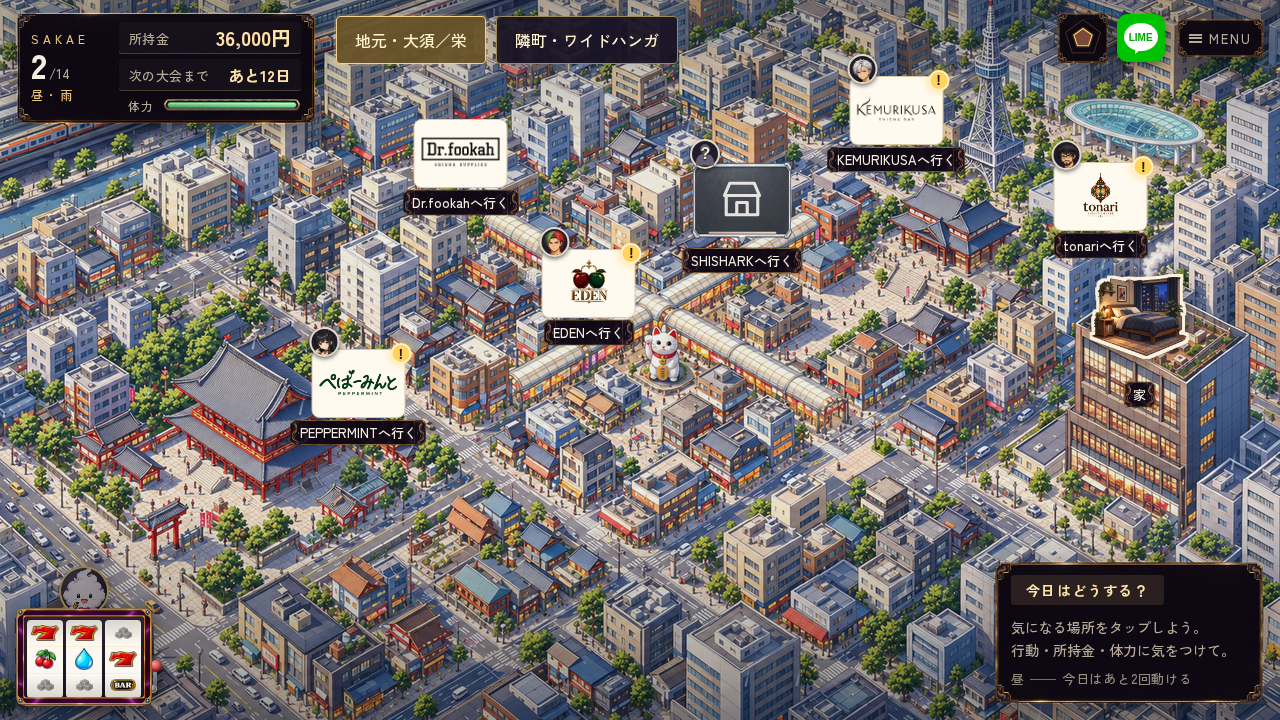
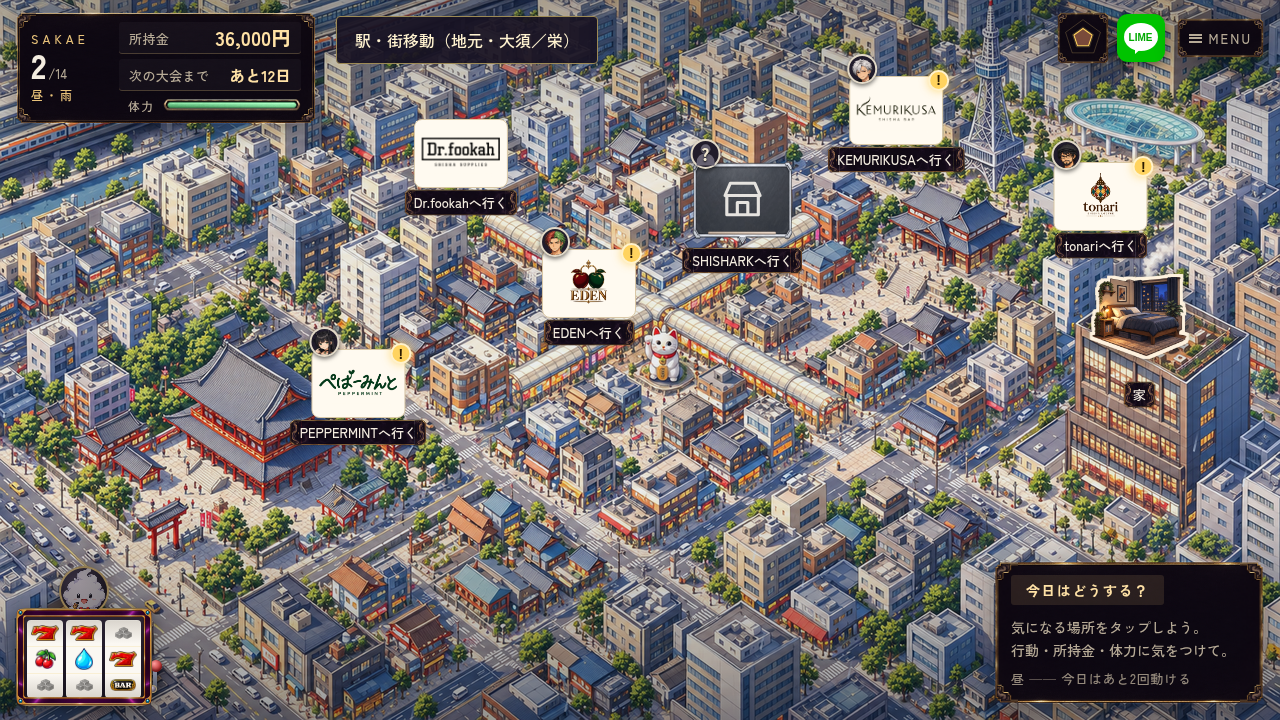
feat(ch2): choose a city after waking and reserve the fare home (#921)

diff --git a/remake/js/daily/shop.js b/remake/js/daily/shop.js
@@ -1,3 +1,4 @@
+import { spendableMoney } from "../core/travel-budget.js";
 // Dr.fookah（問屋街の卸直営店）。フレーバー・機材の売り買いは時間を使わない。
 // 2階のショールーム（凛）へ上がると1行動使う。
 import { CITY_BACKGROUNDS } from "../core/city-locations.js";
@@ -283,7 +284,7 @@ function openCounter({ errand = null, expense = false, minStock = 1, expenseFlag
     function render(focusTest = null) {
       if (finished || state !== session) return;
       const scroll = body.scrollTop, rows = order(), count = rows.reduce((n, r) => n + r.quantity, 0), total = rows.reduce((n, r) => n + r.cost, 0);
-      money.replaceChildren(el("small", { text: "所持金" }), el("span", { text: priceText(state.money) }));
+      money.replaceChildren(el("small", { text: stockChapter === 2 ? "所持金（帰りの200円を確保）" : "所持金" }), el("span", { text: priceText(state.money) }));
       if (errandBox) {
         const done = flavorStock(errand) >= minStock;
         errandBox.classList.toggle("done", done);
@@ -309,10 +310,10 @@ function openCounter({ errand = null, expense = false, minStock = 1, expenseFlag
       body.replaceChildren(...(tab === "flavor" ? groupShopFlavors(flavorIds.map((id) => DB.flavorById[id]).filter((f) => f && (category === "all" || category === f.category))).map((f) => productRow(f, true))
         : tab === "equip" ? DB.equipment.filter(item => forSale(item, stockChapter)).map((e) => productRow(e, false)) : tab === "kuji" ? kujiRows(() => { if (live()) render(); }) : sellRows()));
       body.scrollTop = scroll;
-      summary.replaceChildren(el("small", { text: "合計" }), el("strong", { text: priceText(total) }), el("span", { text: state.money >= total ? `購入後 ${priceText(state.money - total)}` : `あと ${priceText(total - state.money)}` }));
+      summary.replaceChildren(el("small", { text: "合計" }), el("strong", { text: priceText(total) }), el("span", { text: spendableMoney(state) >= total ? `購入後 ${priceText(state.money - total)}` : `あと ${priceText(total - spendableMoney(state))}` }));
       summary.disabled = !count;
       summary.setAttribute("aria-label", `選択した${count}点の内容を確認。合計${yen(total)}`);
-      checkout.disabled = !count || total > state.money;
+      checkout.disabled = !count || total > spendableMoney(state);
       summary.hidden = checkout.hidden = !count && (tab === "kuji" || tab === "sell");
       checkout.textContent = count ? `${count}${rows.every((r) => r.flavor) ? "箱" : "点"}を購入する →` : "商品を選んでください";
       pointTo(checkout, errandBox?.dataset.guideStep === "purchase" && !checkout.disabled);
@@ -327,7 +328,7 @@ function openCounter({ errand = null, expense = false, minStock = 1, expenseFlag
       const rows = order(), total = rows.reduce((n, r) => n + r.cost, 0);
       if (!rows.length) return;
       if (firstErrand && rows.some(r => !r.flavor || r.item.id !== "mint")) { refuseOtherPurchase(); return; }
-      if (state.money < total) { SE.error(); toast("お金が足りない", { kind: "warn" }); render(); return; }
+      if (spendableMoney(state) < total) { SE.error(); toast("お金が足りない", { kind: "warn" }); render(); return; }
       // 非同期処理を挟まず、支払いと全商品の反映を終えてから一度保存する。
       addMoney(-total);
       for (const { item, flavor, quantity, free } of rows) {

diff --git a/remake/js/chapters/ch2-commute.js b/remake/js/chapters/ch2-commute.js
@@ -1,0 +1,48 @@
+import { state, save } from "../core/state.js";
+import { bgUrl } from "../core/data.js";
+import { modal, setBg } from "../core/ui.js";
+import { play } from "../vn/engine.js";
+import { CH2_CITY_NAME } from "../core/city-locations.js";
+import { STATION_FARE, prepareStationTrip } from "../daily/station-travel.js";
+const regions = [{ id: "home" }, { id: "widehanga" }];
+
+export function normalizeCommuteState(value) {
+  if (value.chapter !== 2 || value.flags._ch2_commute_v1) return;
+  // 既に行動中の旧セーブへ、朝の選択を割り込ませない。
+  if (value.flags[`_morning_${value.day}`]) value.flags._ch2_morning_departed = value.day;
+  // 新ルール前に帰りの運賃を使い切った旧保存は、資産を足さず地元で再開する。
+  if (value.flags._ch2_region === "widehanga" && value.money < STATION_FARE) value.flags._ch2_region = "home";
+  value.flags._ch2_commute_v1 = true;
+}
+
+export async function chooseMorningCity() {
+  if (state.flags._ch2_morning_departed === state.day) return;
+  const owner = state, day = state.day;
+  await setBg(bgUrl("bg_home", "day"), { instant: true });
+  const canGo = state.money >= STATION_FARE * 2;
+  const destination = await modal({ title: "今日はどこに行こう？", body: `自宅から出発する。${CH2_CITY_NAME}へは片道200円。帰りの切符代200円も残しておこう。${canGo ? "" : "今は往復分が足りないので、地元で過ごそう。"}`, options: [
+    { label: "地元・大須／栄へ", value: "home", test: "ch2-morning-home" },
+    ...canGo ? [{ label: `${CH2_CITY_NAME}へ（片道200円）`, value: "widehanga", test: "ch2-morning-city" }] : [],
+  ] });
+  if (state !== owner || state.day !== day) return;
+  if (destination === "widehanga") {
+    const trip = prepareStationTrip(state, regions, "widehanga");
+    if (!trip?.commit(state, { persist: () => { state.flags._ch2_morning_departed = day; save(); } })) return;
+    await play({ dialogue_id: "__ch2_morning_train", lines: [{ speaker: "", face: "", text: `片道切符を200円で買い、${CH2_CITY_NAME}行きの電車に乗った。` }] });
+  } else {
+    state.flags._ch2_region = "home";
+    state.flags._ch2_morning_departed = day;
+    save();
+  }
+}
+
+export async function returnCityHome() {
+  if (state.chapter !== 2) return;
+  const owner = state;
+  if (state.flags._ch2_region === "widehanga") {
+    const trip = prepareStationTrip(state, regions, "home");
+    if (!trip?.commit(state, { persist: save })) throw new Error("帰宅の切符代200円が不足しています");
+    await play({ dialogue_id: "__ch2_return_train", lines: [{ speaker: "", face: "", text: `${CH2_CITY_NAME}の駅で、地元へ戻る片道切符を200円で買った。` }, { speaker: "hajime", face: "normal", text: "今日もいろいろあったな。家に帰ろう" }] });
+  }
+  if (state === owner) await setBg(bgUrl("bg_home", "night"), { instant: true });
+}

diff --git a/remake/js/daily/calendar.js b/remake/js/daily/calendar.js
@@ -1,3 +1,4 @@
+import { spendableMoney } from "../core/travel-budget.js";
 // 日常パートの1日の流れ: 朝（DAYカード・LIME）→ 昼の行動 → 夜の固定イベント → 帰宅 → 翌朝。
 import { el, sleep, yen } from "../core/util.js";
 import { layers, dayCard, dayTurn, modal, toast, fadeBlack, bannersIdle, setBg, refreshWeather, dropRetired } from "../core/ui.js";
@@ -102,6 +103,7 @@ export async function runDaily(def) {
       state.flags._delivery_schedule_v2 = true;
       if (!state.flags._c_station_registered && state.slot < 2 && !restingToday()) await registerTournament();
     }
+    await chapterDef.morningDeparture?.();
     while (state.slot < 2) {
       const delivery = dueDelivery();
       if (delivery) await deliver(delivery);
@@ -261,7 +263,7 @@ async function day1Errands() {
     await bannersIdle();
   }
   const naru = spotById("naru");
-  if (!naru || (!f._errand_naru_visited && (isClosed(naru) || state.money < (naru.cost || 0)))) { f._errand_scout_done = true; return; }
+  if (!naru || (!f._errand_naru_visited && (isClosed(naru) || spendableMoney(state) < (naru.cost || 0)))) { f._errand_scout_done = true; return; }
   if (!f._errand_scout_told) {
     await play("remake_day1_errand_scout", { bg: TONARI_BG });
     f._errand_scout_told = true;
@@ -572,7 +574,7 @@ async function performSpotAction(spot) {
 
 function postponeUnaffordableInvitation(inv) {
   const cost = invitationCost(inv.event);
-  if (state.money >= cost) return false;
+  if (spendableMoney(state) >= cost) return false;
   rescheduleInvitation(inv, "所持金が足りなかったため、約束を別の日に改めることにした");
   toast(`約束の店には${yen(cost)}必要です。今日は見送り、別の日に改めます`, { kind: "warn" });
   save();
@@ -727,6 +729,7 @@ async function endDay({ returnedToTonari = false } = {}) {
   // 別の約束で人と会った夜に告白は重ねない（予約は残り、落ち着いた夜に回る）
   const confessed = await maybeConfession(beat, { busyNight: metTonight || rested, companion });
   if (confessed) { delete state.flags._home_tonight; await bannersIdle(); }
+  await chapterDef.beforeHomecoming?.();
   const athome = !!state.flags._home_tonight;
   delete state.flags._home_tonight;
   if (!athome) {

diff --git a/remake/js/chapters/ch2-preparation.js b/remake/js/chapters/ch2-preparation.js
@@ -1,3 +1,5 @@
+import { normalizeCommuteState, chooseMorningCity, returnCityHome } from "./ch2-commute.js";
+import { spendableMoney } from "../core/travel-budget.js";
 import { CH2_CITY_NAME } from "../core/city-locations.js";
 // 第2章の自由日。日常の消費・練習・保存・LIME・就寝は既存calendarを使う。
 import { DB, bgUrl } from "../core/data.js";
@@ -46,7 +48,7 @@ async function visitPreparationSpot(spot, { staminaGuard }) {
   }
   const outing = knownCityOutings(state).find(item => item.id === spot.id && item.kind === "outing");
   if (outing) {
-    if (state.money < outing.cost) return { used: false, exerted: false };
+    if (spendableMoney(state) < outing.cost) return { used: false, exerted: false };
     const dialogueId = state.flags[`_ch2_visited_${outing.id}`] ? outing.repeat : outing.first;
     const result = await play(dialogueId, { bg: outing.previewUrl || MAP[timeOfDay()] });
     if (state !== owner || !result || result.cancelled) return { used: false, exerted: false };
@@ -56,6 +58,7 @@ async function visitPreparationSpot(spot, { staminaGuard }) {
     return { used: true, exerted: outing.stamina < 0 };
   }
   if (spot.kind === "trpg") return null;
+  if (spendableMoney(state) < (spot.cost || 0)) return { used: false, exerted: false };
   const first = !state.flags._ch2_talks?.[id];
   // 旧セーブの総訪問・好感度・思い出から、新しい会話の読了を作らない。
   const followup = !first && !state.flags._ch2_followup_done?.[id];
@@ -114,12 +117,14 @@ async function visitPreparationSpot(spot, { staminaGuard }) {
 
 export async function runChapterTwoPreparation() {
   setHiyoriExtraShops(() => state.chapter === 2 ? PREPARATION_SPOTS : []);
+  normalizeCommuteState(state);
   const startDay = dayOneProgress(state).startDay;
   scheduleChapterTwoTrpgNight(state, startDay);
   state.flags._ch2_preparation_started = true;
   state.flags._ch2_region ||= "home";
   save();
   await runDaily({
+    morningDeparture: chooseMorningCity, beforeHomecoming: returnCityHome,
     startNextDay: true, untilDay: startDay + 13, tournamentName: "HAZE: OPEN CLOUD",
     mapOptions: () => ({
       regionId: state.flags._ch2_region,

diff --git a/remake/js/daily/kuji.js b/remake/js/daily/kuji.js
@@ -1,3 +1,4 @@
+import { spendableMoney } from "../core/travel-budget.js";
 // シーシャくじ（master_spec #25）。正本データは data/kuji.json（旧版と共通）。
 // ボックス制・上位集約。リセマラ防止: 箱の並びは作った時点で確定して保存し、引くたびに先頭から出す。
 // 引いた直後に保存するので、結果を見てからのロードでは変わらない。
@@ -89,11 +90,11 @@ export function kujiRows(rerender) {
     const drawn = box.drawn, order = box.order;
     const button = el("button.btn.small", {
       text: empty ? "売り切れ" : `${yen(g.price)}で引く`,
-      disabled: empty || state.money < g.price || null,
+      disabled: empty || spendableMoney(state) < g.price || null,
       dataset: { test: `kuji-${g.id}` },
       onclick: async () => {
         if (!live(button) || boxes[g.id] !== box || box.order !== order || box.drawn !== drawn
-          || empty || state.money < g.price || layers.modal.classList.contains("show")) return;
+          || empty || spendableMoney(state) < g.price || layers.modal.classList.contains("show")) return;
         if (purchaseLock?.session === session
           && (purchaseLock.committing || purchaseLock.overlay?.isConnected)) return;
         const lock = purchaseLock = { session, committing: true, overlay: null };
@@ -127,7 +128,7 @@ export function kujiRows(rerender) {
 }
 
 async function draw(g, box) {
-  if (box.drawn >= box.order.length || state.money < g.price) return;
+  if (box.drawn >= box.order.length || spendableMoney(state) < g.price) return;
   addMoney(-g.price);
   const prize = box.prizes[box.order[box.drawn]];
   box.drawn += 1;

diff --git a/remake/js/daily/station-travel.js b/remake/js/daily/station-travel.js
@@ -1,5 +1,6 @@
 // 駅の確定処理。演出や待機より先に、運賃と既存の現在地を一緒に保存する。
-export const STATION_FARE = 200;
+import { CITY_TRAIN_FARE as STATION_FARE } from "../core/travel-budget.js";
+export { STATION_FARE };
 const CONNECTED_CITIES = new Set(["home", "widehanga"]);
 
 export function stationDestinations(value, regions = [], from = value?.flags?._ch2_region) {
@@ -15,13 +16,13 @@ export function prepareStationTrip(value, regions, destination) {
   const chapter = value.chapter, day = value.day, slot = value.slot;
   let consumed = false;
   return {
-    from, to: destination, fare: STATION_FARE,
+    from, to: destination, fare: STATION_FARE, required: STATION_FARE * (destination === "widehanga" ? 2 : 1),
     cancel() { consumed = true; },
     commit(current, { active = true, persist = () => {} } = {}) {
       if (consumed || !active || current !== value || current.chapter !== chapter
         || current.day !== day || current.slot !== slot || current.flags._ch2_region !== from
         || !stationDestinations(current, regions, from).some(r => r.id === destination)) return false;
-      if (!Number.isFinite(current.money) || current.money < STATION_FARE) return false;
+      if (!Number.isFinite(current.money) || current.money < STATION_FARE * (destination === "widehanga" ? 2 : 1)) return false;
       consumed = true;
       // 同期区間。中断後に再開しても、保存済み現在地から再徴収しない。
       current.money -= STATION_FARE;

diff --git a/remake/js/chapters/ch2-outings.js b/remake/js/chapters/ch2-outings.js
@@ -18,7 +18,7 @@ export const CITY_OUTINGS = [
 export const CITY_SHOP = { id: "ch2_shop", kind: "shop", label: `Dr.fookah ${CH2_CITY_NAME}店`, name: `Dr.fookah ${CH2_CITY_NAME}店`, region: "widehanga", area: "駅前のシーシャ用品店", x: 61, y: 38,
   previewUrl: CITY_BACKGROUNDS.shop, theme: "shop", glyph: "卸", desc: "隣町の支店。ストロベリーなど県大会向けの仕入れができる。地元店とは異なる品揃え。買い物は時間を使わない。", shop: true };
 
-export const CITY_CHAIN = { id: "ch2_c_station", label: `C.STATION ${CH2_CITY_NAME}店`, kind: "outing", region: "widehanga", area: "シーステーション支店", theme: "stadium", glyph: "C", x: 23, y: 23,
+export const CITY_CHAIN = { id: "ch2_c_station", label: "C.STATION", name: `C.STATION ${CH2_CITY_NAME}店`, kind: "outing", region: "widehanga", area: "シーステーション支店", theme: "stadium", glyph: "C", x: 46, y: 54,
   previewUrl: CITY_BACKGROUNDS.c_station, look: "remake_ch2_chain_look", first: "remake_ch2_chain_visit", repeat: "remake_ch2_chain_repeat", cost: 2500, stamina: -10, stat: "insight",
   dayOneDesc: "地元でも見た大手シーシャチェーンの支店。県大会ホールと同じビルだが、客席は別のフロアにある。",
   desc: "慣れた雰囲気に少し違う席配置。チェーンの一杯と柚ヶ谷の接客を確かめる（1行動・2,500円）。" };

diff --git a/remake/js/daily/map.js b/remake/js/daily/map.js
@@ -229,7 +229,7 @@ function openMap({ notice = "", eventPin = null, guide = null, onShown = null, o
         const trip = stationTrip = prepareStationTrip(state, regions, item.id);
         if (!trip) return;
         const confirm = el("button.mi-go", { type: "button", text: `${yen(trip.fare)}で移動する`,
-          dataset: { test: "station-confirm" }, disabled: state.money < trip.fare,
+          dataset: { test: "station-confirm" }, disabled: state.money < trip.required,
           onclick: async () => {
             if (moving || !stationActive()) return;
             moving = true; confirm.disabled = true;
@@ -251,7 +251,7 @@ function openMap({ notice = "", eventPin = null, guide = null, onShown = null, o
           } });
         info.replaceChildren(el("div.mi-banner", { text: "乗車の確認" }),
           el("p.mi-desc", { text: `${region.label} → ${item.label} ／ 片道 ${yen(trip.fare)}` }),
-          el("p", { text: `所持金 ${yen(state.money)}${state.money < trip.fare ? " ／ 残金が足りません" : ""}` }),
+          el("p", { text: `所持金 ${yen(state.money)}${state.money < trip.required ? " ／ 帰りの切符代も残す必要があります" : ""}` }),
           confirm, el("button.mi-go.mi-go-alt", { type: "button", text: "キャンセル", dataset: { test: "station-cancel" }, onclick: cancel }));
       };
       const openStationAfterFailure = () => {

diff --git a/remake/js/trpg/campaign-view.js b/remake/js/trpg/campaign-view.js
@@ -1,3 +1,4 @@
+import { spendableMoney } from "../core/travel-budget.js";
 import { el, yen } from "../core/util.js";
 import { chapterDay } from "../core/chapter-clock.js";
 import { venueHost } from "../core/venue-host.js";
@@ -162,7 +163,7 @@ export function mountTrpgCampaign(host, { getState, save = () => {}, nightBusy =
           button("本棚に加える · " + yen(book.price), "trpg-buy-" + book.id, () => {
             if (buyTrpgBook(getState(), catalog, book.id)) { save(); render("新しいTRPGが、本棚に加わりました。"); }
             else render("本棚に加えられませんでした。所持金と入荷状況を確認してください。");
-          }, readOnly || state.money < book.price));
+          }, readOnly || spendableMoney(state) < book.price));
       } else {
         copy.append(el("p", { text: cast.ok ? "今夜の卓：" + cast.participants.map(name).join("・") : cast.reason }),
           el("small", { text: scenario.duration + " · 夜の1枠 · 結末を迎えた本は一度きり" }),

diff --git a/remake/js/daily/spot-access.js b/remake/js/daily/spot-access.js
@@ -1,3 +1,4 @@
+import { spendableMoney } from "../core/travel-budget.js";
 // ピンと街の入口は同じ訪問条件を使う。ここでは進行・支払い・訪問記録を変更しない。
 import { state } from "../core/state.js";
 import { yen } from "../core/util.js";
@@ -24,7 +25,7 @@ export function spotAvailability(s, { guide = null } = {}) {
     return { ok: false, why: "今日はもう行った", tag: "今日はもう行った" };
   }
   if (!["shop", "rest", "tonari", "trpg", "axe"].includes(s.kind) && visitedToday(s.id)) return { ok: false, why: "今日はもう行った", tag: "今日はもう行った" };
-  if (s.cost && !freeGuide(s, guide) && state.money < s.cost) return { ok: false, why: `お金が足りない（${yen(s.cost)}）`, tag: "お金が足りない" };
+  if (s.cost && !freeGuide(s, guide) && spendableMoney(state) < s.cost) return { ok: false, why: `お金が足りない（${yen(s.cost)}。柚ヶ谷では帰りの200円も残す）`, tag: "お金が足りない" };
   return { ok: true };
 }
 

diff --git a/remake/css/ch2-preview.css b/remake/css/ch2-preview.css
@@ -173,3 +173,6 @@ body.game-ds.ch2-main .ch2-actions .btn { min-width: 0; min-height: 44px; font-s
 .purikura-sparkles { position: absolute; inset: 10px 4px auto; color: #fff; font-size: 42px; letter-spacing: 18px; text-shadow: 0 0 8px #ff62bc, 0 0 12px #fff; pointer-events: none; }
 .purikura-doodle { position: absolute; bottom: 36px; left: 8px; color: #ff1591; font-size: 30px; font-weight: 900; transform: rotate(-5deg); -webkit-text-stroke: 1px #fff; text-shadow: 2px 2px #fff, -2px -2px #fff; }
 .purikura-caption { position: absolute; left: 0; right: 0; bottom: 2px; padding: 4px; color: #782246; background: #fff4facc; text-align: center; font-weight: 700; }
+body.game-ds.ch2-main .ch2-map-main .spot-pin { flex-direction: row; }
+body.game-ds.ch2-main .ch2-map-main .spot-pin { display: grid; grid-template-columns: 36px minmax(0, 1fr); grid-template-rows: auto auto; min-height: 92px; height: auto; gap: 4px; }
+body.game-ds.ch2-main .ch2-map-main .spot-pin .pin-status { grid-column: 1 / -1; }

diff --git a/remake/js/daily/phone.js b/remake/js/daily/phone.js
@@ -1,3 +1,4 @@
+import { spendableMoney } from "../core/travel-budget.js";
 // LIME（スマホ）。朝に届くメッセージ・返信の選択肢・誘い。
 // ルール: 同じ相手からは1日1話題まで（小分けの連投はOK）／連絡先を交換した相手だけ（master_spec #7/#26）
 // 朝は通知だけ出して受信箱に積み、プレイヤーが好きなときにアプリを開いて読む（オーナー指定）。
@@ -619,7 +620,7 @@ async function runItem(item, ui, accepted, { forced = false } = {}) {
     }
     const polite = POLITE.has(m.sender);
     const cost = invitationCost(m.accept_event);
-    const affordable = state.money >= cost;
+    const affordable = spendableMoney(state) >= cost;
     const go = m.accept_text || (polite ? "行きます！" : "行く！");
     const no = st === "busy"
       ? polite ? "すみません、先に別の約束があって……" : "ごめん、先に別の約束をしてしまった"
